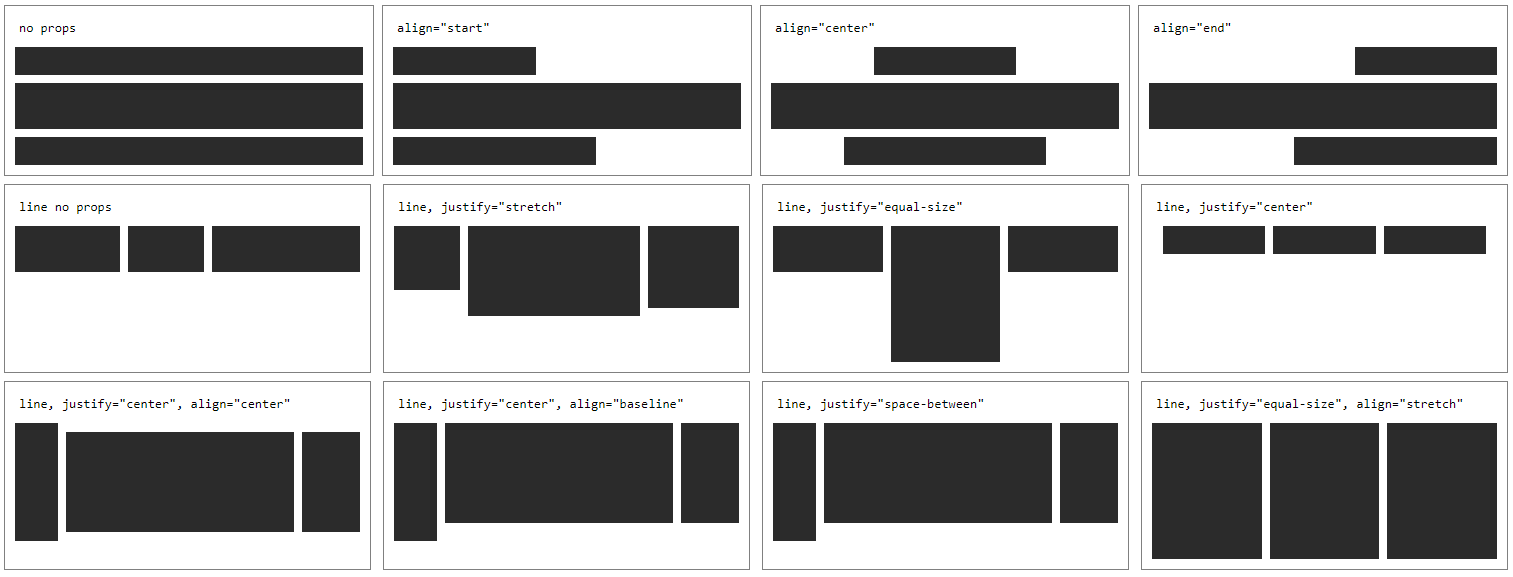
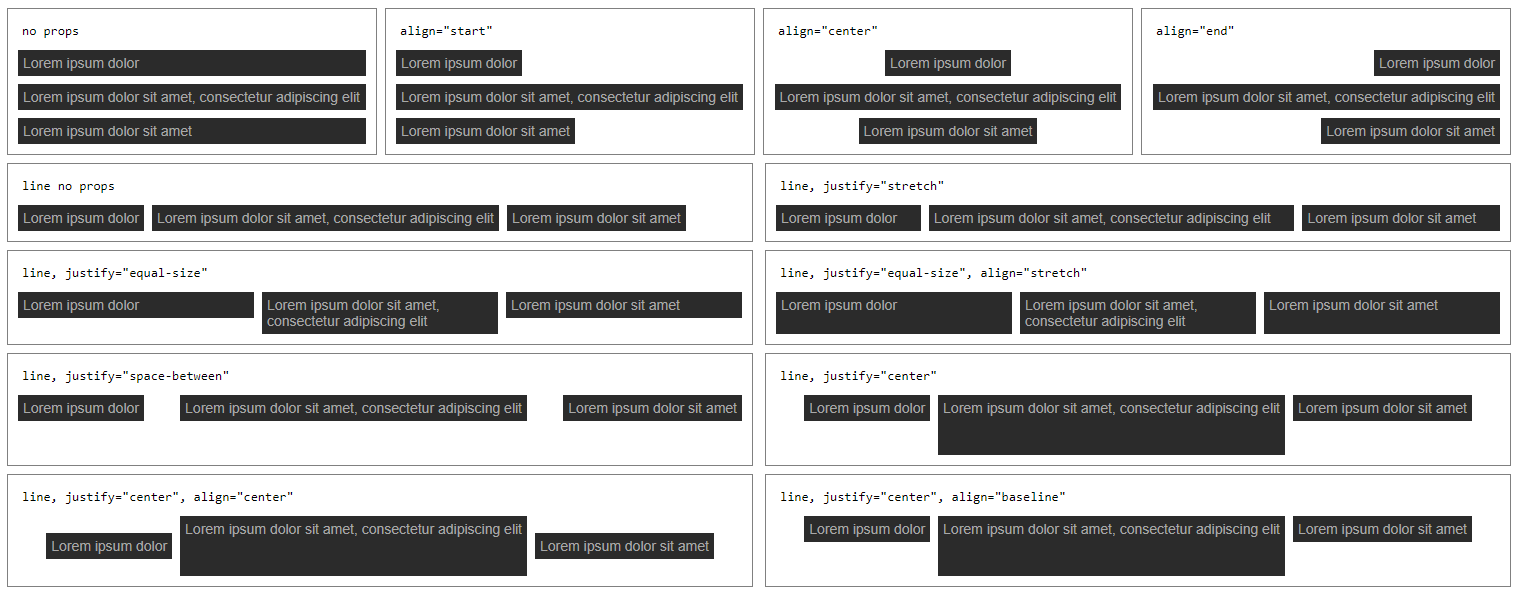
Generic Stack Component (#54)
* initial commit for Generic Stack Component, fixes #44

* fixed styleguide and stack layout image

diff --git a/spec/rails_app/app/assets/stylesheets/styleguide.scss b/spec/rails_app/app/assets/stylesheets/styleguide.scss
@@ -1,23 +1,24 @@
 .stack-item {
   background-color: #2b2b2b;
   padding: 5px;
-  color: transparent;
-  min-width: 30px;
+  color: #a8a8a8;
+  font-size: 14px;
   overflow-wrap: break-word;
+
+  &--extend-height {
+    height: 50px;
+  }
 }
 
 .stack__prop {
   font-family: monospace;
 }
 
-.stack-item--height-80 {
-  min-height: 80px;
-}
-
 .stack--border {
   border: 1px solid grey;
   padding: 10px;
   width: 100%;
+  box-sizing: border-box;
 }
 
 .styleguide {

diff --git a/src/components/stack.scss b/src/components/stack.scss
@@ -87,6 +87,7 @@ $sizes: (
     justify-content: stretch;
     > * {
       min-width: min-content;
+      flex-grow: 1;
     }
   }
   &--justify-equal-size {
